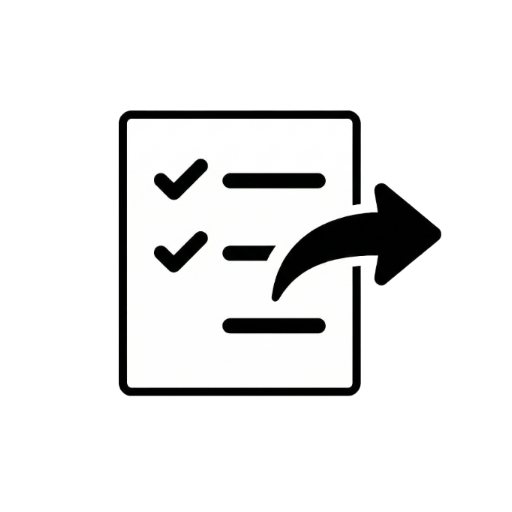
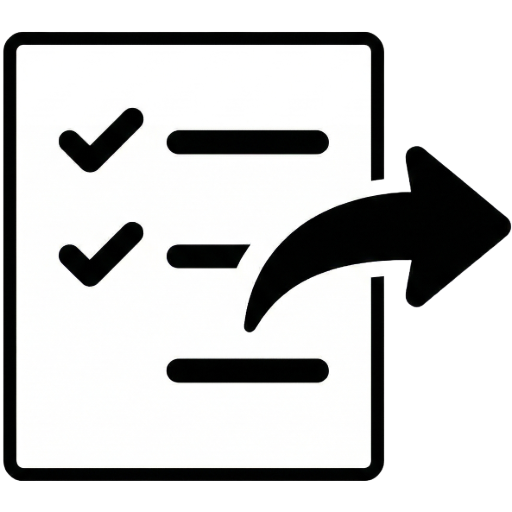
minor ui fixes

Changed region(s): [[0.0, 0.0625, 1.0, 0.9375]]

diff --git a/src/app/components/ListsContainer.tsx b/src/app/components/ListsContainer.tsx
@@ -587,7 +587,7 @@ export default function ListsContainer({
                             aria-label="Сохранить"
                             onMouseDown={() => { skipBlurRef.current = true; }}
                             onClick={() => void handleConfirmRename(list)}
-                            className="text-green-600 hover:text-white hover:bg-green-600 text-base px-2 py-1 leading-none rounded transition"
+                            className="hidden sm:inline-flex text-green-600 hover:text-white hover:bg-green-600 text-base px-2 py-1 leading-none rounded transition"
                           >
                             ✓
                           </button>

diff --git a/src/app/components/SmartList.tsx b/src/app/components/SmartList.tsx
@@ -435,7 +435,7 @@ export default function SmartList({
                           aria-label="Сохранить"
                           onMouseDown={() => { skipItemBlurRef.current = true; }}
                           onClick={() => void handleConfirmItemRename(item)}
-                          className="text-green-600 hover:text-white hover:bg-green-600 text-sm px-1 py-1 leading-none rounded transition"
+                          className="hidden sm:inline-flex text-green-600 hover:text-white hover:bg-green-600 text-sm px-1 py-1 leading-none rounded transition"
                         >
                           ✓
                         </button>
